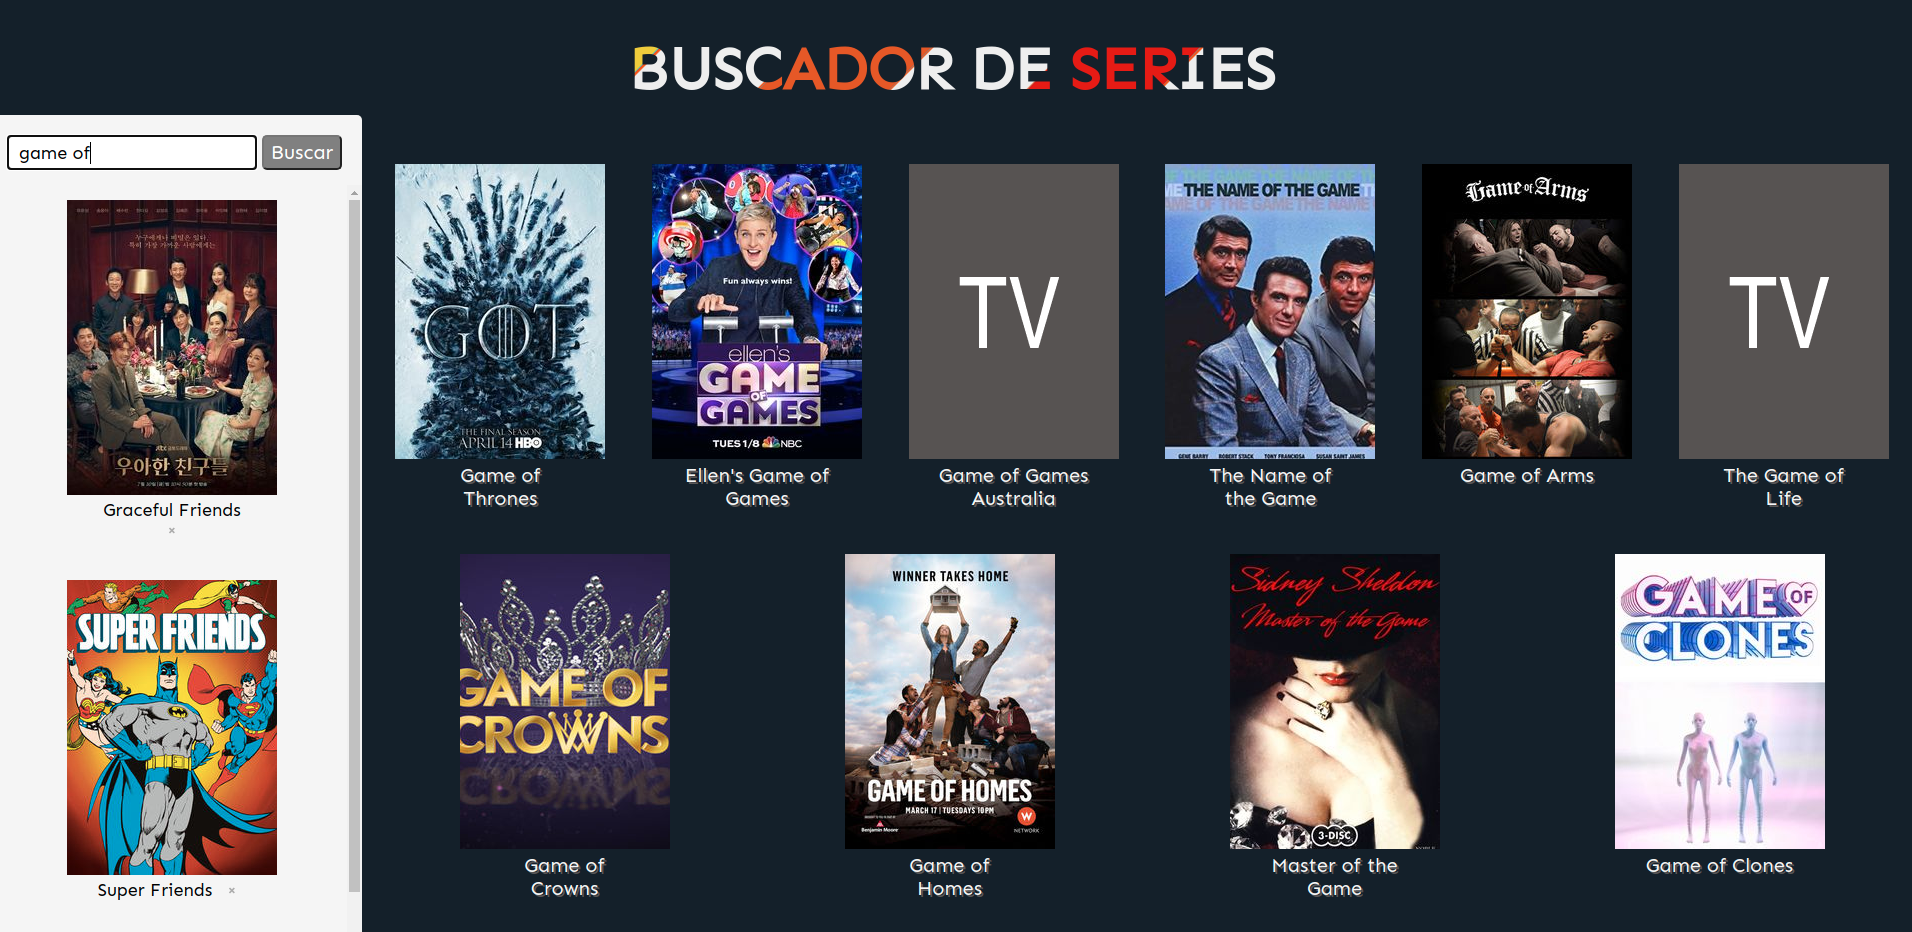
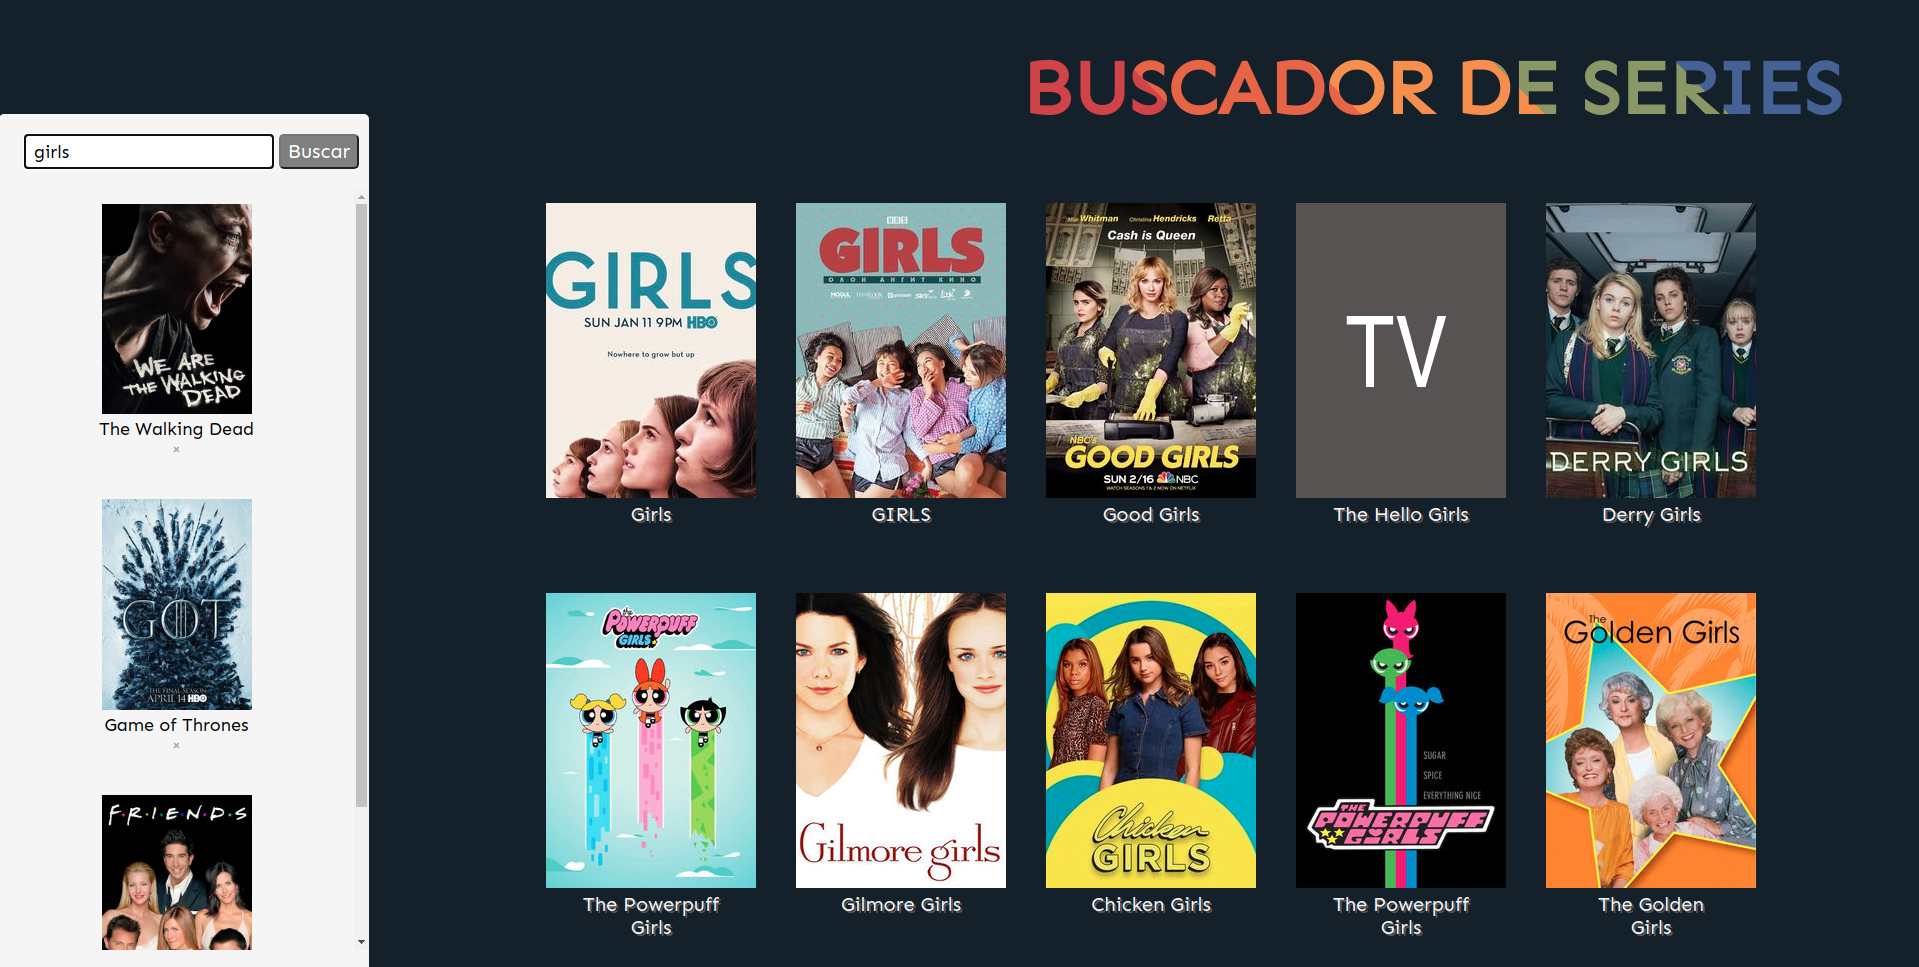
run docs

diff --git a/docs/assets/css/main.css b/docs/assets/css/main.css
@@ -1,1 +1,1 @@
-* {-webkit-box-sizing: border-box;box-sizing: border-box;margin: 0;padding: 0;}/*! normalize.css v8.0.1 | MIT License | github.com/necolas/normalize.css */html {line-height: 1.15;-webkit-text-size-adjust: 100%;}body {margin: 0;padding: 0;background: #15202b;}main {display: block;}h1 {font-size: 2em;margin: 0.67em 0;}hr {-webkit-box-sizing: content-box;box-sizing: content-box;height: 0;overflow: visible;}pre {font-family: monospace, monospace;font-size: 1em;}a {background-color: transparent;}abbr[title] {border-bottom: none;text-decoration: underline;-webkit-text-decoration: underline dotted;text-decoration: underline dotted;}b,strong {font-weight: bolder;}code,kbd,samp {font-family: monospace, monospace;font-size: 1em;}small {font-size: 80%;}sub,sup {font-size: 75%;line-height: 0;position: relative;vertical-align: baseline;}sub {bottom: -0.25em;}sup {top: -0.5em;}img {border-style: none;}button,input,optgroup,select,textarea {font-family: inherit;font-size: 100%;line-height: 1.15;margin: 0;}button,input {overflow: visible;}button,select {text-transform: none;}button,[type='button'],[type='reset'],[type='submit'] {-webkit-appearance: button;}button::-moz-focus-inner,[type='button']::-moz-focus-inner,[type='reset']::-moz-focus-inner,[type='submit']::-moz-focus-inner {border-style: none;padding: 0;}button:-moz-focusring,[type='button']:-moz-focusring,[type='reset']:-moz-focusring,[type='submit']:-moz-focusring {outline: 1px dotted ButtonText;}fieldset {padding: 0.35em 0.75em 0.625em;}legend {-webkit-box-sizing: border-box;box-sizing: border-box;color: inherit;display: table;max-width: 100%;padding: 0;white-space: normal;}progress {vertical-align: baseline;}textarea {overflow: auto;}[type='checkbox'],[type='radio'] {-webkit-box-sizing: border-box;box-sizing: border-box;padding: 0;}[type='number']::-webkit-inner-spin-button,[type='number']::-webkit-outer-spin-button {height: auto;}[type='search'] {-webkit-appearance: textfield;outline-offset: -2px;}[type='search']::-webkit-search-decoration {-webkit-appearance: none;}::-webkit-file-upload-button {-webkit-appearance: button;font: inherit;}details {display: block;}summary {display: list-item;}template {display: none;}[hidden] {display: none;}.main-title {text-align: center;font-family: "Sen",sans-serif;text-transform: uppercase;font-size: 60px;background: url(../images/animated_text_fill3.png.svg) repeat-y;-webkit-background-clip: text;background-clip: text;-webkit-text-fill-color: transparent;-webkit-animation: aitf 80s linear infinite;-webkit-transform: translate3d(0, 0, 0);-webkit-backface-visibility: hidden;}.main-container {margin-left: 380px;text-align: center;display: -webkit-box;display: -ms-flexbox;display: flex;-ms-flex-wrap: wrap;flex-wrap: wrap;-ms-flex-pack: distribute;justify-content: space-around;}.main-container ul li {margin: 20px;cursor: pointer;text-align: center;}.main-container ul li p {margin: auto;}.tvShows-list {list-style: none;display: -webkit-box;display: -ms-flexbox;display: flex;-ms-flex-wrap: wrap;flex-wrap: wrap;max-width: 90vw;-ms-flex-pack: distribute;justify-content: space-around;}.show-title {text-align: center;font-family: "Sen",sans-serif;color: #f5f5f5;font-size: 20px;text-shadow: #5a5757 2px 2px;width: 150px;height: 50px;}.tvShowSelected {background-color: white;padding: 10px;}.tvShowSelected p {color: red;text-shadow: none;font-weight: 600;}.page__aside {position: fixed;width: 370px;height: 100vh;left: 0;top: 120px;background: #f5f5f5;border-radius: 5px;display: -webkit-box;display: -ms-flexbox;display: flex;-webkit-box-orient: vertical;-webkit-box-direction: normal;-ms-flex-direction: column;flex-direction: column;padding-bottom: 140px;}.page__aside .search-container {padding-bottom: 15px;}.page__aside .search-container .searchInput {width: 250px;height: 35px;padding: 10px;margin-left: 15px;margin-top: 20px;border: 2px solid grey;font-family: "Sen",sans-serif;background-color: white;border-radius: 5px;font-size: 18px;}.page__aside .search-container .buttonSearch {width: 80px;height: 35px;font-size: 20px;font-family: "Sen",sans-serif;border-radius: 5px;background-color: grey;color: white;cursor: pointer;}.page__aside .search-container .buttonSearch:hover {-webkit-box-shadow: 0 4px 16px #032735;box-shadow: 0 4px 16px #032735;-webkit-transition: all 0.2s ease;transition: all 0.2s ease;}.page__aside .favourites-container {overflow-y: scroll;}.page__aside .favourites-container .favourites li {padding: 15px;list-style-type: none;text-align: center;display: inline-block;margin-left: 60px;}.page__aside .favourites-container .favourites li p {font-family: "Sen",sans-serif;font-size: 18px;width: 170px;height: 50px;margin: auto;}.page__aside .favourites-container .favourites .close {cursor: pointer;opacity: 0.3;padding-left: 10px;padding-right: 10px;}.page__aside .favourites-container .favourites .close:hover {opacity: 1;}.page__aside .favourites-container .delete-all_container {-webkit-box-align: baseline;-ms-flex-align: baseline;align-items: baseline;text-align: center;padding-bottom: 20px;}.page__aside .favourites-container .delete-all_container .delete-all_button {width: 160px;height: 35px;font-size: 16px;font-family: "Sen",sans-serif;border-radius: 5px;color: white;background-color: #15202b;cursor: pointer;}.page__aside .favourites-container .delete-all_container .delete-all_button:hover {-webkit-box-shadow: 0 4px 16px #032735;box-shadow: 0 4px 16px #032735;-webkit-transition: all 0.2s ease;transition: all 0.2s ease;}@-webkit-keyframes aitf {0% {background-position: 0% 50%;}100% {background-position: 100% 50%;}}
+* {-webkit-box-sizing: border-box;box-sizing: border-box;margin: 0;padding: 0;}/*! normalize.css v8.0.1 | MIT License | github.com/necolas/normalize.css */html {line-height: 1.15;-webkit-text-size-adjust: 100%;}body {margin: 0;padding: 0;background: #15202b;-webkit-box-sizing: border-box;box-sizing: border-box;}main {display: block;}h1 {font-size: 2em;margin: 0.67em 0;}hr {-webkit-box-sizing: content-box;box-sizing: content-box;height: 0;overflow: visible;}pre {font-family: monospace, monospace;font-size: 1em;}a {background-color: transparent;}abbr[title] {border-bottom: none;text-decoration: underline;-webkit-text-decoration: underline dotted;text-decoration: underline dotted;}b,strong {font-weight: bolder;}code,kbd,samp {font-family: monospace, monospace;font-size: 1em;}small {font-size: 80%;}sub,sup {font-size: 75%;line-height: 0;position: relative;vertical-align: baseline;}sub {bottom: -0.25em;}sup {top: -0.5em;}img {border-style: none;}button,input,optgroup,select,textarea {font-family: inherit;font-size: 100%;line-height: 1.15;margin: 0;}button,input {overflow: visible;}button,select {text-transform: none;}button,[type='button'],[type='reset'],[type='submit'] {-webkit-appearance: button;}button::-moz-focus-inner,[type='button']::-moz-focus-inner,[type='reset']::-moz-focus-inner,[type='submit']::-moz-focus-inner {border-style: none;padding: 0;}button:-moz-focusring,[type='button']:-moz-focusring,[type='reset']:-moz-focusring,[type='submit']:-moz-focusring {outline: 1px dotted ButtonText;}fieldset {padding: 0.35em 0.75em 0.625em;}legend {-webkit-box-sizing: border-box;box-sizing: border-box;color: inherit;display: table;max-width: 100%;padding: 0;white-space: normal;}progress {vertical-align: baseline;}textarea {overflow: auto;}[type='checkbox'],[type='radio'] {-webkit-box-sizing: border-box;box-sizing: border-box;padding: 0;}[type='number']::-webkit-inner-spin-button,[type='number']::-webkit-outer-spin-button {height: auto;}[type='search'] {-webkit-appearance: textfield;outline-offset: -2px;}[type='search']::-webkit-search-decoration {-webkit-appearance: none;}::-webkit-file-upload-button {-webkit-appearance: button;font: inherit;}details {display: block;}summary {display: list-item;}template {display: none;}[hidden] {display: none;}.page {display: -webkit-box;display: -ms-flexbox;display: flex;-webkit-box-orient: vertical;-webkit-box-direction: normal;-ms-flex-direction: column;flex-direction: column;}.main-title {font-family: "Sen",sans-serif;text-transform: uppercase;cursor: pointer;background-image: linear-gradient(45deg, #ca4246 16.666%, #e16541 16.666%, #e16541 33.333%, #f18f43 33.333%, #f18f43 50%, #8b9862 50%, #8b9862 66.666%, #476098 66.666%, #476098 83.333%, #a7489b 83.333%);background-size: 100%;background-repeat: repeat;background-clip: text;-webkit-background-clip: text;-webkit-text-fill-color: transparent;-webkit-animation: rainbow-text-simple-animation-rev 0.75s ease forwards;animation: rainbow-text-simple-animation-rev 0.75s ease forwards;}.main-title:hover {-webkit-animation: rainbow-text-simple-animation 0.5s ease-in forwards;animation: rainbow-text-simple-animation 0.5s ease-in forwards;}.titleOnLoad {text-align: center;font-size: 24px;}.titleMove {text-align: center;font-size: 24px;}.main-container {display: -webkit-box;display: -ms-flexbox;display: flex;-webkit-box-orient: vertical;-webkit-box-direction: normal;-ms-flex-direction: column;flex-direction: column;text-align: center;}.main-container ul li {cursor: pointer;margin: 10px;}.main-container ul li p {margin: auto;}.tvShows-list {list-style: none;display: -webkit-box;display: -ms-flexbox;display: flex;-webkit-box-orient: vertical;-webkit-box-direction: normal;-ms-flex-direction: column;flex-direction: column;-webkit-box-align: center;-ms-flex-align: center;align-items: center;}.show-title {text-align: center;font-family: "Sen",sans-serif;color: #f5f5f5;font-size: 20px;text-shadow: #5a5757 2px 2px;width: 150px;height: 50px;}.tvShowSelected {background-color: white;padding: 10px;}.tvShowSelected p {color: red;text-shadow: none;font-weight: 600;}.page__aside {position: fixed;width: 100vw;height: 40vh;text-align: center;bottom: 0;background: #f5f5f5;}.page__aside .search-container {margin-bottom: 2vh;}.page__aside .search-container .searchInput {width: 65vw;height: 6vh;padding: 8px;margin-top: 20px;border: 2px solid grey;font-family: "Sen",sans-serif;background-color: white;border-radius: 5px;font-size: 16px;}.page__aside .search-container .buttonSearch {width: 20vw;height: 6vh;font-size: 16px;font-family: "Sen",sans-serif;border-radius: 5px;background-color: grey;color: white;cursor: pointer;}.page__aside .search-container .buttonSearch:hover {-webkit-box-shadow: 0 4px 16px #032735;box-shadow: 0 4px 16px #032735;-webkit-transition: all 0.2s ease;transition: all 0.2s ease;}.page__aside .favourites-container {overflow-y: scroll;}.page__aside .favourites-container .favourites {display: -webkit-box;display: -ms-flexbox;display: flex;-webkit-box-orient: horizontal;-webkit-box-direction: normal;-ms-flex-direction: row;flex-direction: row;}.page__aside .favourites-container .favourites li {padding: 10px;list-style-type: none;}.page__aside .favourites-container .favourites li img {width: 50px;}.page__aside .favourites-container .favourites li p {font-family: "Sen",sans-serif;font-size: 14px;width: 150px;height: 32px;margin: auto;}.page__aside .favourites-container .favourites .close {cursor: pointer;opacity: 0.3;padding-left: 10px;padding-right: 10px;}.page__aside .favourites-container .favourites .close:hover {opacity: 1;}.page__aside .favourites-container .delete-all_container .delete-all_button {width: 140px;height: 30px;font-size: 14px;font-family: "Sen",sans-serif;border-radius: 5px;color: white;background-color: #15202b;cursor: pointer;}.page__aside .favourites-container .delete-all_container .delete-all_button:hover {-webkit-box-shadow: 0 4px 16px #032735;box-shadow: 0 4px 16px #032735;-webkit-transition: all 0.2s ease;transition: all 0.2s ease;}@media all and (min-width: 768px) {.main-title {font-size: 50px;}.main-container {-ms-flex-wrap: wrap;flex-wrap: wrap;}.tvShows-list {-ms-flex-pack: distribute;justify-content: space-around;-webkit-box-orient: horizontal;-webkit-box-direction: normal;-ms-flex-direction: row;flex-direction: row;-ms-flex-wrap: wrap;flex-wrap: wrap;-webkit-box-pack: center;-ms-flex-pack: center;justify-content: center;}.page__aside {height: 30vh;}.page__aside .search-container .searchInput {font-size: 18px;}.page__aside .search-container .buttonSearch {font-size: 20px;}.page__aside .favourites-container .favourites li img {width: 70px;}.page__aside .favourites-container .favourites li p {font-size: 16px;}}@media all and (min-width: 1024px) {.titleOnLoad {font-size: 112px;margin-top: 40vh;margin-left: 20vw;}.titleMove {font-size: 50px;text-align: right;margin-right: 4vw;}.main-container {margin-left: 25vw;-ms-flex-wrap: wrap;flex-wrap: wrap;-ms-flex-pack: distribute;justify-content: space-around;}.main-container ul li {margin: 20px;text-align: center;}.tvShows-list {max-width: 70vw;}.page__aside {position: fixed;width: 370px;height: 100vh;left: 0;top: 120px;display: -webkit-box;display: -ms-flexbox;display: flex;-webkit-box-orient: vertical;-webkit-box-direction: normal;-ms-flex-direction: column;flex-direction: column;padding-bottom: 140px;border-radius: 5px;}.page__aside .search-container .searchInput {width: 250px;height: 35px;margin-left: 15px;border: 2px solid grey;}.page__aside .search-container .buttonSearch {width: 80px;height: 35px;}.page__aside .favourites-container .favourites {-webkit-box-orient: vertical;-webkit-box-direction: normal;-ms-flex-direction: column;flex-direction: column;}.page__aside .favourites-container .favourites li {padding: 15px;list-style-type: none;text-align: center;display: inline-block;}.page__aside .favourites-container .favourites li img {width: 150px;}.page__aside .favourites-container .favourites li p {font-size: 18px;width: 170px;height: 50px;margin: auto;}.page__aside .favourites-container .delete-all_container {-webkit-box-align: baseline;-ms-flex-align: baseline;align-items: baseline;text-align: center;}.page__aside .favourites-container .delete-all_container .delete-all_button {width: 160px;height: 35px;font-size: 16px;}}@-webkit-keyframes rainbow-text-simple-animation-rev {0% {background-size: 50%;}40% {background-size: 50%;}100% {background-size: 55%;}}@keyframes rainbow-text-simple-animation-rev {0% {background-size: 50%;}40% {background-size: 50%;}100% {background-size: 55%;}}@-webkit-keyframes rainbow-text-simple-animation {0% {background-size: 100%;}80% {background-size: 650%;}100% {background-size: 650%;}}@keyframes rainbow-text-simple-animation {0% {background-size: 100%;}80% {background-size: 650%;}100% {background-size: 650%;}}

diff --git a/docs/assets/js/main.js b/docs/assets/js/main.js
@@ -1,1 +1,1 @@
-"use strict";const urlBase="https://api.tvmaze.com/search/shows?q=",ulElem=document.querySelector(".tvShows-list"),favElem=document.querySelector("#favouritesList"),inputValue=document.querySelector(".searchInput"),searchButton=document.querySelector(".buttonSearch"),deleteButton=document.querySelector(".delete-all_button");let tvShowsList=[],localStorageFavourites=readLocalStorage();function conectToApi(){const e=inputValue.value;ulElem.innerHTML="",fetch(`${urlBase}`+e).then(e=>e.json()).then(e=>{tvShowsList=e,printTvShows(tvShowsList)})}function conectToApiIfEnter(e){13===e.keyCode&&conectToApi()}function printTvShows(e){for(let t of e){const e=document.createElement("li");e.setAttribute("id",t.show.id),e.setAttribute("class","tvShow-list_item");const o=document.createElement("img");o.setAttribute("alt","Poster");const a=document.createElement("p");a.setAttribute("class","show-title");let n=document.createTextNode(t.show.name);a.appendChild(n),e.appendChild(o),e.appendChild(a),ulElem.appendChild(e),null!==t.show.image?o.setAttribute("src",t.show.image.medium):o.setAttribute("src","https://via.placeholder.com/210x295/575352/ffffff/?text=TV"),-1!==obtainIndexOfLocalStorageFavouritesById(t.show.id)&&e.setAttribute("class","tvShow-list_item tvShowSelected")}addClickListeners()}function obtainIndexOfLocalStorageFavouritesById(e){for(let t=0;t<localStorageFavourites.length;t++)if(parseInt(e)===localStorageFavourites[t].show.id)return t;return-1}function addClickListeners(){const e=document.querySelectorAll(".tvShow-list_item");for(let t of e)t.addEventListener("click",saveAndDeleteFavourites)}function setLocalStorage(e){localStorage.setItem("tvShowInfo",JSON.stringify(e))}function readLocalStorage(){let e=JSON.parse(localStorage.getItem("tvShowInfo"));return null!==e?e:[]}function getTvShowObject(e){return tvShowsList.find(t=>t.show.id===parseInt(e))}function saveAndDeleteFavourites(e){const t=e.currentTarget.id,o=getTvShowObject(t);-1===obtainIndexOfLocalStorageFavouritesById(t)?(localStorageFavourites.push(o),tvShowSelectedStyle(t)):deleteFavouriteById(t),setLocalStorage(localStorageFavourites),renderFavourites(localStorageFavourites)}function tvShowSelectedStyle(e){document.getElementById(e).classList.toggle("tvShowSelected")}function renderFavourites(e){favElem.innerHTML="";for(let t of e){const e=document.createElement("li");e.setAttribute("id",t.show.id),e.setAttribute("class","fav-list_item");const o=document.createElement("img");o.setAttribute("alt","Poster");const a=document.createElement("p");let n=document.createTextNode(t.show.name);a.appendChild(n);const r=document.createElement("span");r.setAttribute("class","close"),r.innerHTML=" &times;",a.appendChild(r),e.appendChild(o),e.appendChild(a),favElem.appendChild(e),null!==t.show.image?o.setAttribute("src",t.show.image.medium):o.setAttribute("src","https://via.placeholder.com/210x295/575352/ffffff/?text=TV"),addRemoveFavouriteListeners()}}function addRemoveFavouriteListeners(){const e=document.getElementsByClassName("close");for(let t of e)t.addEventListener("click",deleteFavouriteAside)}function deleteFavouriteAside(e){deleteFavouriteById(e.currentTarget.parentElement.parentElement.id)}function deleteFavouriteById(e){const t=obtainIndexOfLocalStorageFavouritesById(e);localStorageFavourites.splice(t,1),tvShowSelectedStyle(e),setLocalStorage(localStorageFavourites),renderFavourites(localStorageFavourites)}function deleteAllFavourites(){for(let e of localStorageFavourites)tvShowSelectedStyle(e.show.id);favElem.innerHTML="",setLocalStorage([]),localStorageFavourites=readLocalStorage()}searchButton.addEventListener("click",conectToApi),document.addEventListener("keydown",conectToApiIfEnter),window.addEventListener("load",renderFavourites(localStorageFavourites)),deleteButton.addEventListener("click",deleteAllFavourites);
+"use strict";const urlBase="https://api.tvmaze.com/search/shows?q=",ulElem=document.querySelector(".tvShows-list"),favElem=document.querySelector("#favouritesList"),inputValue=document.querySelector(".searchInput"),searchButton=document.querySelector(".buttonSearch"),deleteButton=document.querySelector(".delete-all_button"),title=document.getElementById("main-title");let tvShowsList=[],localStorageFavourites=readLocalStorage();function conectToApi(){const e=inputValue.value;ulElem.innerHTML="",fetch(`${urlBase}`+e).then(e=>e.json()).then(e=>{tvShowsList=e,printTvShows(tvShowsList)})}function conectToApiIfEnter(e){13===e.keyCode&&conectToApi()}function printTvShows(e){for(let t of e){const e=document.createElement("li");e.setAttribute("id",t.show.id),e.setAttribute("class","tvShow-list_item");const o=document.createElement("img");o.setAttribute("alt","Poster");const a=document.createElement("p");a.setAttribute("class","show-title");let l=document.createTextNode(t.show.name);a.appendChild(l),e.appendChild(o),e.appendChild(a),ulElem.appendChild(e),null!==t.show.image?o.setAttribute("src",t.show.image.medium):o.setAttribute("src","https://via.placeholder.com/210x295/575352/ffffff/?text=TV"),-1!==obtainIndexOfLocalStorageFavouritesById(t.show.id)&&e.setAttribute("class","tvShow-list_item tvShowSelected")}title.classList.add("titleMove"),title.classList.remove("titleOnLoad"),addClickListeners()}function obtainIndexOfLocalStorageFavouritesById(e){for(let t=0;t<localStorageFavourites.length;t++)if(parseInt(e)===localStorageFavourites[t].show.id)return t;return-1}function addClickListeners(){const e=document.querySelectorAll(".tvShow-list_item");for(let t of e)t.addEventListener("click",saveAndDeleteFavourites)}function setLocalStorage(e){localStorage.setItem("tvShowInfo",JSON.stringify(e))}function readLocalStorage(){let e=JSON.parse(localStorage.getItem("tvShowInfo"));return null!==e?e:[]}function getTvShowObject(e){return tvShowsList.find(t=>t.show.id===parseInt(e))}function saveAndDeleteFavourites(e){const t=e.currentTarget.id,o=getTvShowObject(t);-1===obtainIndexOfLocalStorageFavouritesById(t)?(localStorageFavourites.push(o),tvShowSelectedStyle(t)):deleteFavouriteById(t),setLocalStorage(localStorageFavourites),renderFavourites(localStorageFavourites)}function tvShowSelectedStyle(e){document.getElementById(e).classList.toggle("tvShowSelected")}function renderFavourites(e){favElem.innerHTML="";for(let t of e){const e=document.createElement("li");e.setAttribute("id",t.show.id),e.setAttribute("class","fav-list_item");const o=document.createElement("img");o.setAttribute("alt","Poster");const a=document.createElement("p");let l=document.createTextNode(t.show.name);a.appendChild(l);const n=document.createElement("span");n.setAttribute("class","close"),n.innerHTML=" &times;",a.appendChild(n),e.appendChild(o),e.appendChild(a),favElem.appendChild(e),null!==t.show.image?o.setAttribute("src",t.show.image.medium):o.setAttribute("src","https://via.placeholder.com/210x295/575352/ffffff/?text=TV"),addRemoveFavouriteListeners()}}function addRemoveFavouriteListeners(){const e=document.getElementsByClassName("close");for(let t of e)t.addEventListener("click",deleteFavouriteAside)}function deleteFavouriteAside(e){deleteFavouriteById(e.currentTarget.parentElement.parentElement.id)}function deleteFavouriteById(e){const t=obtainIndexOfLocalStorageFavouritesById(e);localStorageFavourites.splice(t,1),tvShowSelectedStyle(e),setLocalStorage(localStorageFavourites),renderFavourites(localStorageFavourites)}function deleteAllFavourites(){for(let e of localStorageFavourites)tvShowSelectedStyle(e.show.id);favElem.innerHTML="",setLocalStorage([]),localStorageFavourites=readLocalStorage()}searchButton.addEventListener("click",conectToApi),document.addEventListener("keydown",conectToApiIfEnter),window.addEventListener("load",renderFavourites(localStorageFavourites)),deleteButton.addEventListener("click",deleteAllFavourites);

diff --git a/docs/index.html b/docs/index.html
@@ -14,7 +14,7 @@
     <body>
         <div class="page">
             <header class="page__header">
-                 <h1 class="main-title">buscador de series</h1> 
+                 <h1 class="main-title titleOnLoad" id="main-title">buscador de series</h1> 
             </header>
             <main class="page__main">
                 <div class="main-container">
